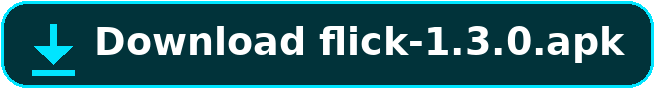
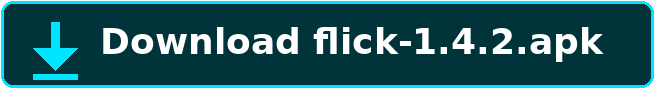
Flick v1.4.2: new home design

diff --git a/app/src/main/java/com/ibfavas/flick/ui/MainScreen.kt b/app/src/main/java/com/ibfavas/flick/ui/MainScreen.kt
@@ -76,7 +76,6 @@ import androidx.compose.material.icons.filled.Lock
 import androidx.compose.material.icons.filled.Notifications
 import androidx.compose.material.icons.filled.PlayArrow
 import androidx.compose.material.icons.filled.Search
-import androidx.compose.material.icons.filled.Settings
 import androidx.compose.material.icons.filled.Share
 import androidx.compose.material.icons.filled.Star
 import androidx.compose.material3.AlertDialog
@@ -98,7 +97,6 @@ import androidx.compose.material3.Switch
 import androidx.compose.material3.Text
 import androidx.compose.material3.TextButton
 import androidx.compose.material3.rememberModalBottomSheetState
-import androidx.compose.ui.geometry.Offset
 import androidx.compose.runtime.Composable
 import androidx.compose.runtime.LaunchedEffect
 import androidx.compose.runtime.collectAsState
@@ -127,6 +125,9 @@ import androidx.compose.ui.graphics.graphicsLayer
 import androidx.compose.ui.layout.ContentScale
 import androidx.compose.ui.platform.LocalContext
 import androidx.compose.ui.res.painterResource
+import androidx.compose.ui.text.SpanStyle
+import androidx.compose.ui.text.buildAnnotatedString
+import androidx.compose.ui.text.withStyle
 import androidx.compose.ui.text.font.FontWeight
 import androidx.compose.ui.text.style.TextAlign
 import androidx.compose.ui.unit.dp
@@ -431,12 +432,17 @@ private fun GestureListScreen(
                     )
                 }) {
                     Icon(
-                        painter = painterResource(R.drawable.ic_mug),
-                        contentDescription = "Buy me a coffee"
+                        painter = painterResource(R.drawable.ic_mug_outline),
+                        contentDescription = "Buy me a coffee",
+                        tint = accentColor()
                     )
                 }
                 IconButton(onClick = onSettings) {
-                    Icon(Icons.Filled.Settings, contentDescription = "Settings")
+                    Icon(
+                        painter = painterResource(R.drawable.ic_gear_outline),
+                        contentDescription = "Settings",
+                        tint = accentColor()
+                    )
                 }
             }
             Spacer(modifier = Modifier.height(16.dp))
@@ -445,7 +451,7 @@ private fun GestureListScreen(
                 style = MaterialTheme.typography.titleSmall,
                 fontWeight = FontWeight.Bold,
                 letterSpacing = 2.sp,
-                color = FlickBrand.TextWhite
+                color = FlickBrand.TextMuted
             )
             Spacer(modifier = Modifier.height(10.dp))
             Row(
@@ -531,7 +537,7 @@ private fun GestureListScreen(
                 }
             } else {
                 LazyColumn(
-                    verticalArrangement = Arrangement.spacedBy(10.dp),
+                    verticalArrangement = Arrangement.spacedBy(16.dp),
                     contentPadding = PaddingValues(bottom = 96.dp)
                 ) {
                     items(filtered, key = { it.id }) { gesture ->
@@ -642,16 +648,20 @@ private fun GestureListScreen(
 }
 
 /**
- * A category pill for the home screen. Selected: cyan fill, dark text.
- * Unselected: near-black surface, white text.
+ * A category pill for the home screen (v1.4.2): selected is a cyan
+ * fill with dark text; unselected is transparent with a cyan outline
+ * and cyan text, like the picked design.
  */
 @Composable
 private fun CategoryTab(label: String, selected: Boolean, onClick: () -> Unit) {
     Box(
         modifier = Modifier
             .clip(RoundedCornerShape(20.dp))
-            .background(
-                if (selected) accentColor() else MaterialTheme.colorScheme.surfaceVariant
+            .background(if (selected) accentColor() else Color.Transparent)
+            .border(
+                width = if (selected) 0.dp else 1.dp,
+                color = accentColor(),
+                shape = RoundedCornerShape(20.dp)
             )
             .clickable(onClick = onClick)
             .padding(horizontal = 18.dp, vertical = 10.dp),
@@ -661,11 +671,20 @@ private fun CategoryTab(label: String, selected: Boolean, onClick: () -> Unit) {
             label,
             style = MaterialTheme.typography.titleSmall,
             fontWeight = FontWeight.SemiBold,
-            color = if (selected) FlickBrand.OnCyan else FlickBrand.TextWhite
+            color = if (selected) FlickBrand.OnCyan else accentColor()
         )
     }
 }
 
+/**
+ * A gesture card (v1.4.2, the picked design): a dark rounded card the
+ * same height as the 1.3.0 card (72dp glyph + 12dp padding), holding
+ * the cyan-outlined gesture thumbnail, the target's icon in a circle,
+ * and the name with "· N samples" on the same line (wrapping to a
+ * second line when the name is long). Tap opens the detail sheet;
+ * long-press still deletes, as before. Disabled gestures are dimmed
+ * so their state is obvious at a glance.
+ */
 @OptIn(ExperimentalFoundationApi::class)
 @Composable
 private fun GestureCard(
@@ -674,23 +693,14 @@ private fun GestureCard(
     onEdit: () -> Unit,
     onDelete: () -> Unit
 ) {
-    val appLabel = if (gesture.actionType == ActionType.LAUNCH_APP) {
-        appLabel(gesture.payload)
-    } else {
-        null
-    }
-    val description = remember(gesture, appLabel) {
-        gestureDescription(gesture, appLabel)
-    }
+    val sampleText =
+        "${gesture.sampleCount()} sample${if (gesture.sampleCount() == 1) "" else "s"}"
     Row(
         modifier = Modifier
             .fillMaxWidth()
             .clip(RoundedCornerShape(20.dp))
             .border(1.dp, FlickBrand.Outline, RoundedCornerShape(20.dp))
             .background(MaterialTheme.colorScheme.surface)
-            // Tap opens the detail sheet; long-press still deletes,
-            // as before. Disabled gestures are dimmed so their state
-            // is obvious at a glance.
             .combinedClickable(onClick = onClick, onLongClick = onDelete)
             .graphicsLayer { alpha = if (gesture.enabled) 1f else 0.55f }
             .padding(12.dp),
@@ -701,42 +711,30 @@ private fun GestureCard(
             modifier = Modifier.size(72.dp)
         )
         Spacer(modifier = Modifier.width(12.dp))
-        Column(modifier = Modifier.weight(1f)) {
-            Text(
-                gesture.name,
-                style = MaterialTheme.typography.titleMedium,
-                fontWeight = FontWeight.SemiBold,
-                color = FlickBrand.TextWhite
-            )
-            Spacer(modifier = Modifier.height(4.dp))
-            Row(verticalAlignment = Alignment.CenterVertically) {
-                ActionIcon(gesture, size = 20.dp, iconSize = 12.dp)
-                Spacer(modifier = Modifier.width(6.dp))
-                Text(
-                    description,
-                    style = MaterialTheme.typography.bodyMedium,
-                    color = MaterialTheme.colorScheme.onSurfaceVariant
-                )
-            }
-        }
-        Spacer(modifier = Modifier.width(8.dp))
-        DragHandle()
-    }
-}
-
-/** The six-dot grip on the right edge of a gesture card, like Glyf's. */
-@Composable
-private fun DragHandle() {
-    Canvas(modifier = Modifier.size(16.dp, 28.dp)) {
-        val radius = 2.dp.toPx()
-        val color = Color(0xFF8A8A8A)
-        val xs = listOf(size.width * 0.3f, size.width * 0.7f)
-        val ys = listOf(size.height * 0.2f, size.height * 0.5f, size.height * 0.8f)
-        for (x in xs) {
-            for (y in ys) {
-                drawCircle(color, radius, Offset(x, y))
-            }
-        }
+        ActionIcon(gesture, size = 44.dp, iconSize = 24.dp, circular = true)
+        Spacer(modifier = Modifier.width(12.dp))
+        Text(
+            text = buildAnnotatedString {
+                withStyle(
+                    SpanStyle(
+                        color = FlickBrand.TextWhite,
+                        fontWeight = FontWeight.SemiBold
+                    )
+                ) {
+                    append(gesture.name)
+                }
+                withStyle(
+                    SpanStyle(
+                        color = MaterialTheme.colorScheme.onSurfaceVariant,
+                        fontWeight = FontWeight.Normal
+                    )
+                ) {
+                    append(" · $sampleText")
+                }
+            },
+            style = MaterialTheme.typography.titleMedium,
+            modifier = Modifier.weight(1f)
+        )
     }
 }
 
@@ -905,9 +903,8 @@ private fun GestureGlyph(template: String, modifier: Modifier = Modifier) {
     val accent = accentColor()
     Box(
         modifier = modifier
-            .clip(RoundedCornerShape(14.dp))
-            .border(1.dp, FlickBrand.Outline, RoundedCornerShape(14.dp))
-            .background(FlickBrand.AmoledSurfaceVariant)
+            .clip(RoundedCornerShape(8.dp))
+            .border(2.dp, accent, RoundedCornerShape(8.dp))
     ) {
         Canvas(modifier = Modifier.fillMaxSize().padding(8.dp)) {
             if (strokes.isEmpty()) return@Canvas

diff --git a/app/src/main/java/com/ibfavas/flick/ui/TargetIcon.kt b/app/src/main/java/com/ibfavas/flick/ui/TargetIcon.kt
@@ -63,10 +63,12 @@ fun iconFor(type: ActionType): ImageVector = when (type) {
 /**
  * The target's icon for a gesture: the app's own icon for app gestures,
  * the action's icon otherwise. Shared by the gesture cards, the detail
- * sheet and the overlay pad's "Opening" banner.
+ * sheet and the overlay pad's "Opening" banner. [circular] clips the
+ * app icon to a circle (v1.4.2 home cards); the default rounded
+ * rectangle is kept everywhere else.
  */
 @Composable
-fun ActionIcon(gesture: Gesture, size: Dp = 44.dp, iconSize: Dp = 24.dp) {
+fun ActionIcon(gesture: Gesture, size: Dp = 44.dp, iconSize: Dp = 24.dp, circular: Boolean = false) {
     val context = LocalContext.current
     if (gesture.actionType == ActionType.LAUNCH_APP) {
         var bitmap by remember(gesture.payload) { mutableStateOf<androidx.compose.ui.graphics.ImageBitmap?>(null) }
@@ -84,7 +86,7 @@ fun ActionIcon(gesture: Gesture, size: Dp = 44.dp, iconSize: Dp = 24.dp) {
                 contentDescription = null,
                 modifier = Modifier
                     .size(size)
-                    .clip(RoundedCornerShape(10.dp))
+                    .clip(if (circular) CircleShape else RoundedCornerShape(10.dp))
             )
         } else {
             FallbackIcon(Icons.AutoMirrored.Filled.ExitToApp, size, iconSize)

diff --git a/README.md b/README.md
@@ -9,7 +9,7 @@
 </p>
 
 <p align="center">
-  <img src="https://img.shields.io/badge/version-1.3.0-00E5FF" alt="Version 1.3.0">
+  <img src="https://img.shields.io/badge/version-1.4.2-00E5FF" alt="Version 1.4.2">
   <img src="https://img.shields.io/badge/license-Apache%202.0-00E5FF" alt="License: Apache 2.0">
   <img src="https://img.shields.io/badge/platform-Android-3DDC84" alt="Platform: Android">
   <img src="https://img.shields.io/badge/Kotlin-2.0-7F52FF" alt="Kotlin 2.0">
@@ -18,8 +18,8 @@
 ## ⬇ Download
 
 <p align="center">
-  <a href="https://github.com/ibfavas/Flick/releases/download/v1.3.0/flick-1.3.0.apk">
-    <img src="assets/download-button.png" alt="Download flick-1.3.0.apk" width="320">
+  <a href="https://github.com/ibfavas/Flick/releases/download/v1.4.2/flick-1.4.2.apk">
+    <img src="assets/download-button.png" alt="Download flick-1.4.2.apk" width="320">
   </a>
 </p>
 
@@ -27,10 +27,13 @@
   📦 <a href="https://github.com/ibfavas/Flick/releases">All releases</a>
 </p>
 
-## 🎉 What is new in 1.3.0
+## 🎉 What is new in 1.4.2
 
-🎯 Recognition got better. On the built in test harness, live style draws
-went from 87% to 89% detected, and wrong launches did not go up. 👍
+🏠 The home screen has a fresh look. Tabs are outlined pills now, with
+the active one filled in cyan. Each gesture row shows its stroke in a
+cyan outlined box, the app icon in a circle, and the name with its
+sample count on one line. The mug and gear at the top are cyan outlines
+too. Same screens, same features, just a cleaner home.
 
 ## ✨ Features
 
